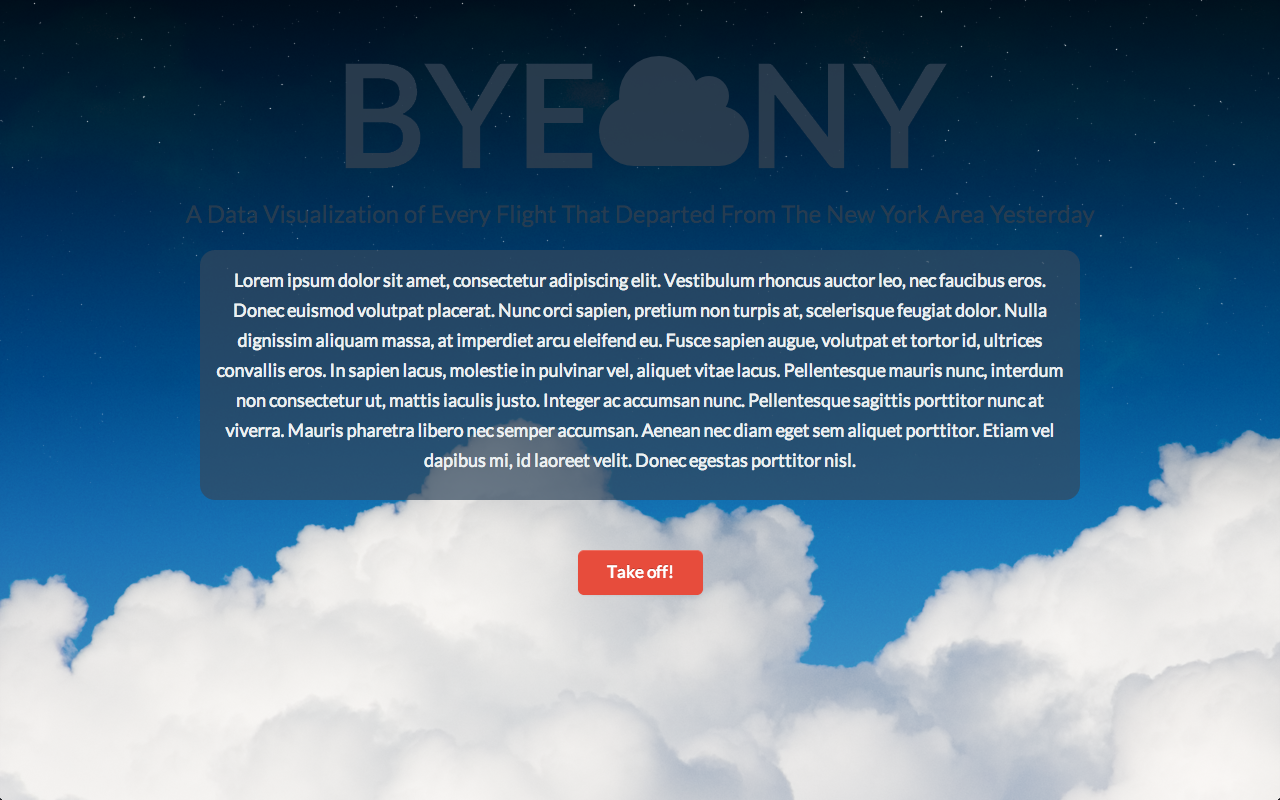
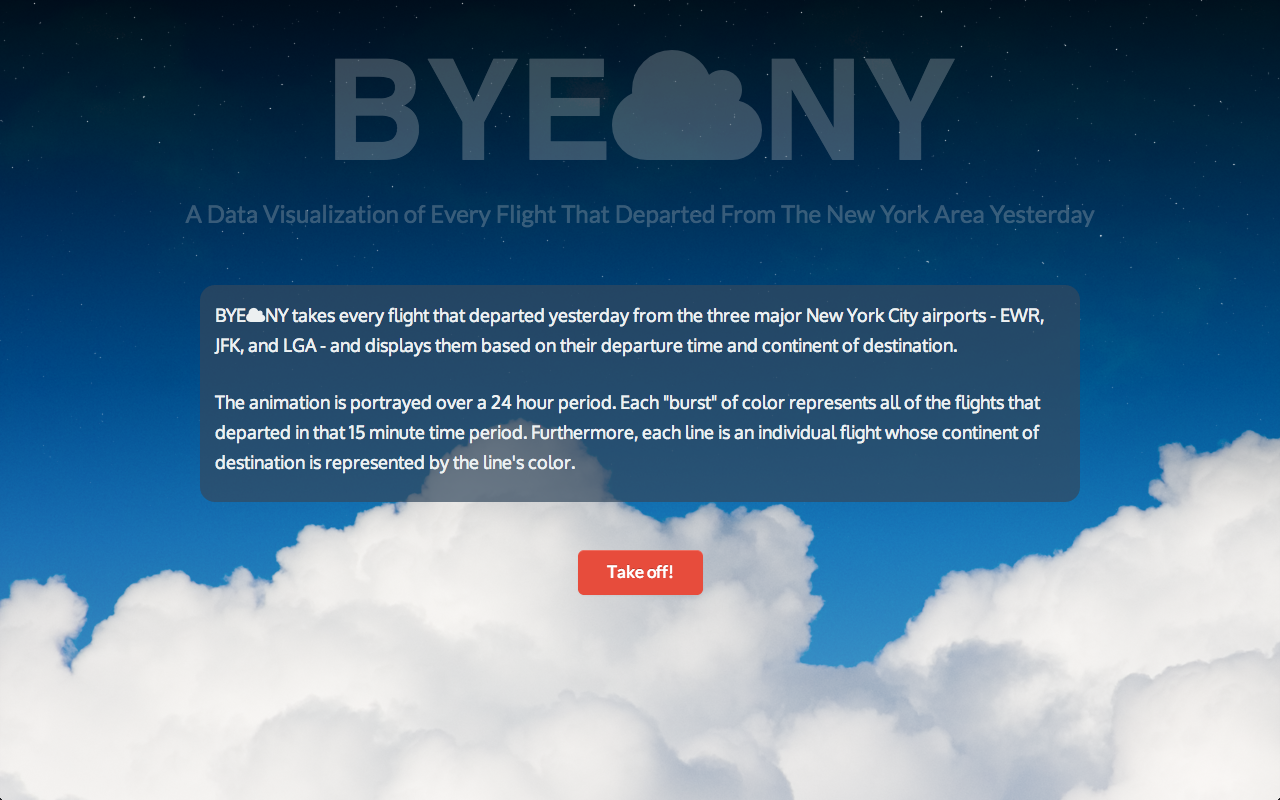
updated a lot of functionality and views

Changed region(s): [[0.1562, 0.3125, 0.8438, 0.5938], [0.25, 0.0625, 0.75, 0.2188], [0.125, 0.25, 0.8438, 0.2812]]

diff --git a/index.html b/index.html
@@ -51,30 +51,45 @@
   		<hr />
       <div class="row" id="content-section1">
         <div class="four columns projects">
-          <a href="http://byeny.herokuapp.com" target="_Blank">
+          <a class="proj-img" href="http://byeny.herokuapp.com" target="_Blank">
             <img src="stylesheets/img/byeny.png" class="top project-img" alt="">
             <img src="stylesheets/img/byeny1.png" class="bottom project-img" alt="">
           </a>
-          <h4 class="title">BYE NY</h4>
-          <p>Data Visualization of Flights</p>   
+          <button id="show1">BYE NY</button>
+          <div id="display-text1">
+            <p>
+              BYE NY is an interactive infographic application that shows all flights departing from the three major airports in and around New York; Newark Int’l Airport, LaGuardia Airport and JFK Airport. Flight colors are based on destination country and are displayed in 15 minutes “bursts”. 
+            <br>
+              The application is built with Ruby and a Rails3 framework. The map was created using SVG (Scalable Vector Graph) and the flight lines were created using a d3.js canvas and data visualization. The data was taken from an API provided by www.flightstats.com which was then parsed to show only departing flights and relavant information. Front-end was built with CSS3 and JavaScript. 
+
+            </p>
+          </div>
         </div>
         <div class="four columns projects">
           <a href="http://pool-party.herokuapp.com" target="_Blank">
             <img src="stylesheets/img/poolparty1.png" class="top project-img" alt="">
             <img src="stylesheets/img/poolparty2.png" class="bottom project-img" alt="">
           </a>
-          <h4 class="title">Pool Party!</h4>
-          <p>
-            Carpool app built on Rails 4
-          </p>
+          <button id="show2">Pool Party!</button>
+          <div id="display-text2">
+            <p>
+              Pool Party was created to help alleviate the insecurities and fear of carpooling with strangers. The app allow users to create a "trip" that would be visible to other users. Users would then be able to view profiles and give rating feedback/rating to other users. This helps save money and the planet!
+              <br>
+              This app was built with Ruby on a Rails4 framework. Utilizes the latest of HTML5 and CSS3 technologies to create a welcoming user experience for the users. All users are requried to sign up with proper credentials to help ensure the safety of the users through devise authentication. Through the use of Twilio's API we are able to make request as simple as sending a request via SMS messaging to your mobile phone. 
+            </p>
+          </div>
         </div>
-        <div class="four columns projects" id="proj-2">
+        <div class="columns projects" id="proj-3">
           <a href="http://heartbeatink.herokuapp.com" target="_Blank">
             <img src="stylesheets/img/heartbeat.png" class="bottom project-img" alt="">
             <img src="stylesheets/img/heartbeat1.png" class="top project-img" alt="">
           </a>
-          <h4 class="title">Heartbeat Ink</h4>
-          <p>Aspiring tattoo artist from the NY/NJ area</p>
+          <button id="show3">Heartbeat Ink</button>
+          <div id="display-text3">
+            <p>
+              Aspiring tattoo artist from the NY/NJ area
+            </p>
+          </div>
         </div>
       </div>
     </div>

diff --git a/stylesheets/styles.css b/stylesheets/styles.css
@@ -15,7 +15,7 @@ body {
 }
 
 .homebanner {
-  background: url(img/rustedchain.jpg) center center fixed;
+  background: url(img/bikelights.jpg) center center fixed;
   -webkit-background-size: cover;
   -moz-background-size: cover;
   -o-background-size: cover;
@@ -57,9 +57,14 @@ html {
   margin: 0px;
 }*/
 
+.title {
+  font-family: "Lato";
+  text-align: center;
+  margin-top: 15px;
+}
+
 #content-section1 {
-  padding-top: 55px;
-  padding-bottom: 100px;
+  padding: 30px 0 30px 0;
 }
 
 #content-section2 {
@@ -67,18 +72,10 @@ html {
   padding-bottom: 50px;
 }
 
-.title {
-  font-family: Geneva;
-  text-align: center;
-  margin-top: 15px;
-}
-
 .projects {
   /*border: 1px solid;*/
-  width: 300px;
-  height: 200px;
+  margin: 50px 0 50px 0;
   text-align: center;
-  margin: 0 15px 0 15px;
 }
 
 .projects .bottom,
@@ -90,9 +87,63 @@ html {
   display: block;
 }
 
-/*.project-img {
+#proj-3 {
+  float: left;
+}
+
+#show1 {
   border-radius: 15px;
+  margin-top: 10px;
+}
+
+#show2 {
+  border-radius: 15px;
+  margin-top: 10px;
+}
+
+#show3 {
+  border-radius: 15px;
+  margin-top: 10px;
+}
+
+#display-text1 {
+  /*background-color: rgba(255, 20, 147, .3);*/
+  display: none;
+  padding: 10px;
+}
+
+#display-text2 {
+  /*background-color: rgba(255, 20, 147, .3);*/
+  display: none;
+  padding: 10px;
+}
+
+#display-text3 {
+  /*background-color: rgba(255, 20, 147, .3);*/
+  display: none;
+  padding: 10px;
+}
+
+button {
+  outline: 0;
+}
+
+/*
+.copy {
 }*/
+
+.project-img {
+  display: block;
+  margin-left: auto;
+  margin-right: auto;
+  width: 100%;  
+}
+
+
+
+div p {
+  text-align: left;
+}
 
 .skills-icon {
   /*border: 1px solid;*/

diff --git a/javascripts/scripts.js b/javascripts/scripts.js
@@ -59,7 +59,35 @@ $(window).scroll(function() {
   }
 });
 
-///////////// Chart ////////////////
+///////////// display text ////////////////
+
+$(document).ready(function(){
+  $("#show1").click(function(){
+    $("#display-text1").stop().toggle("slow");
+  }),
+  $("#show2").click(function(){
+    $("#display-text2").stop().toggle("slow");
+  }),
+  $("#show3").click(function(){
+    $("#display-text3").stop().toggle("slow");
+  });
+});
+
+
+
+
+
+
+
+
+
+
+
+
+
+
+
+
 
 
 
